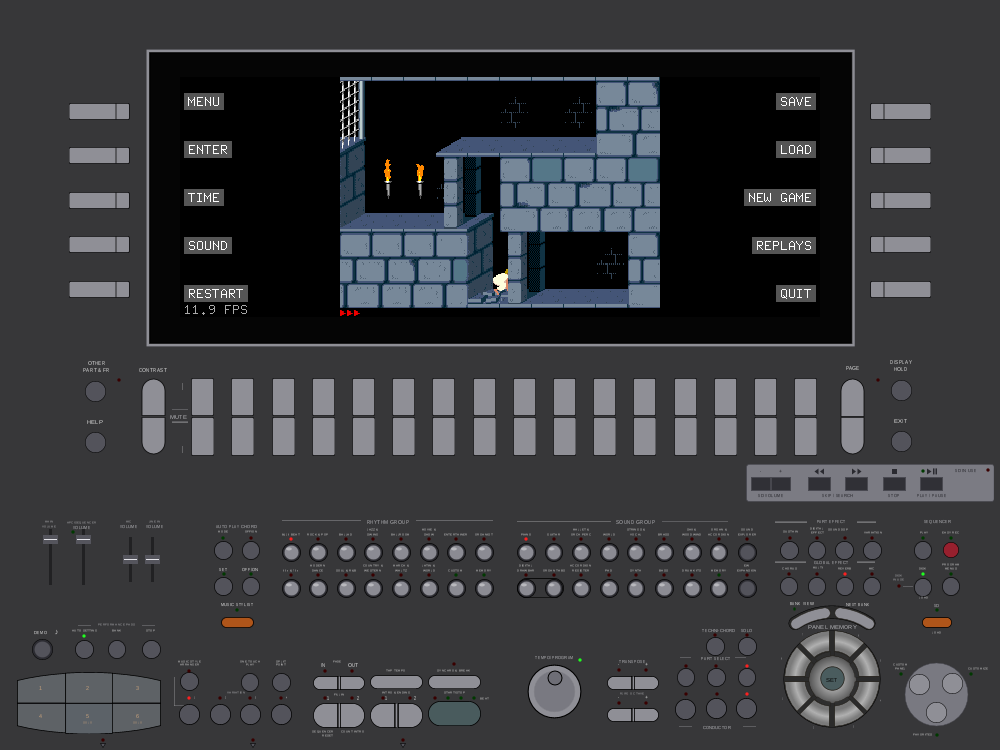
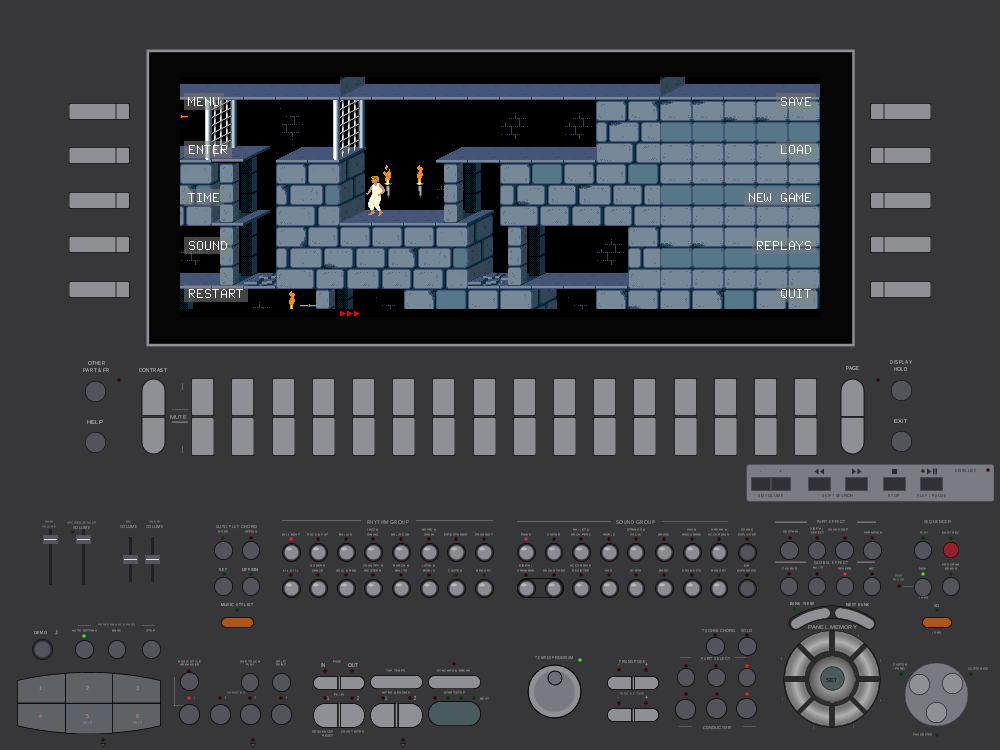
Prince of Persia on the KN7000: the game dot for dot, the rooms round it
The 320 x 200 picture in the LCD's middle and the neighbouring rooms in the margins (animated, stand-ins where the
level has none, the flash and the menu's darkening over them), the VISUALS settings, the menu's KN7000 trim; new
pictures from MAME.

Claude-Session: https://claude.ai/code/session_01T9N6DMagQDJLsDptGodYhv

Changed region(s): [[0.155, 0.092, 0.837, 0.4293]]

diff --git a/kn7000-prince-of-persia.md b/kn7000-prince-of-persia.md
@@ -27,6 +27,7 @@ Source: `kn5000_homebrew/demos/kn7000_sdlpop/` (its `README.md` has the details)
 >   for a PC keyboard, is turned off);
 > - starts a game and plays level 1 from the keybed and the panel at the game's own speed, 12 ticks a second;
 > - plays its sound effects on the effects DSP and its music on the instrument's own tone generator;
+> - shows the game dot for dot in the middle of the LCD, the rooms next to the Kid's round it (below);
 > - draws the same frames as the same code built for the PC, and as SDLPoP itself on the real SDL 2 (below);
 > - ends when EXIT is held or QUIT pressed, and gives the instrument back with the firmware's RAM it borrowed as it
 >   was, straight to the main screen as the program menu does, with no "ERROR!";
@@ -67,7 +68,7 @@ DISK MENU, STYLE CONVERT, OK (the loader floppy), and in the program menu's Game
 | QUIT                            | Ctrl+Q                                                             |
 | EXIT held 1.5 s                 | ends it at once and gives the instrument back                      |
 
-![Level 1 on the KN7000's LCD in MAME: the Kid at the start, the frame rate at the bottom left]({{ site.baseurl }}/assets/images/kn7000/pop-level1.png)
+![Level 1 on the KN7000's LCD in MAME: the Kid at the start, the rooms next to his round the game's picture]({{ site.baseurl }}/assets/images/kn7000/pop-level1.png)
 
 The keybed keys are the same as [Another World's]({{ site.baseurl }}/another-world-vm/) on the KN7000: the right hand steers
 with F5, Ab5/Bb5, A5 and C6, and the left hand acts with C4 or any key below it. While the game runs, the keybed plays
@@ -86,8 +87,20 @@ The program has two parts, as Doom's has:
 the index of its colour in one palette of 252 colours that all such surfaces share. That palette is the LCD
 controller's look-up table, so a frame goes to the LCD as it is, a line only when it changed. This keeps SDLPoP's
 screens to a third of their RAM. SDLPoP's fades darken every pixel by the same amount, so here they darken the look-up
-table instead. The 320 x 200 picture is in the middle of the 640 x 240 LCD, its lines shown as 240. The columns
-either side carry the soft keys' labels and the frame rate.
+table instead.
+
+**The rooms around the screen.** The 320 x 200 picture is shown dot for dot in the middle of the 640 x 240 LCD, and
+while a level is played the space round it shows the rooms next to the Kid's: half of the room on each side, 20 lines
+of the rooms above and below (rooms lie 189 lines apart, as the game stacks them), and the corners, with the game's
+status line moved to the LCD's foot. They are drawn with SDLPoP's own room drawing, its state put back afterwards; the
+torches' flames, falling floors and moving gates are drawn again each tick, and a room's guard stands where the game
+keeps him. Where the level has no room, the stand-in is what the game itself draws at its edges: wall beside, floor
+above, masonry below. The margins take the game's flash and the menu's darkening. Two settings in SDLPoP's VISUALS
+menu: the rooms Off, at full brightness (the default) or dimmed away from the room in play by a smooth, dithered ramp;
+the soft keys' labels (50% grey boxes over the rooms) always shown or only while paused. In MAME every room the Kid
+walks into in the test replays looks as its margin showed it, 98.2 to 100% of the pixels the same (the rest: the Kid
+and what moves). The settings menu leaves out what the KN7000 has no use for: full screen, scaling, joystick, controls,
+cheats (PC keys) and torch shadows (a multiplied light mask the indexed LCD cannot show).
 
 **Memory.** `POP.BIN`'s image (about 330 KB) is linked to the free region ARENA2, and its static data (about 106 KB) to
 the program area. Everything else is malloc's: a heap in each free region and in the firmware RAM that the platform
